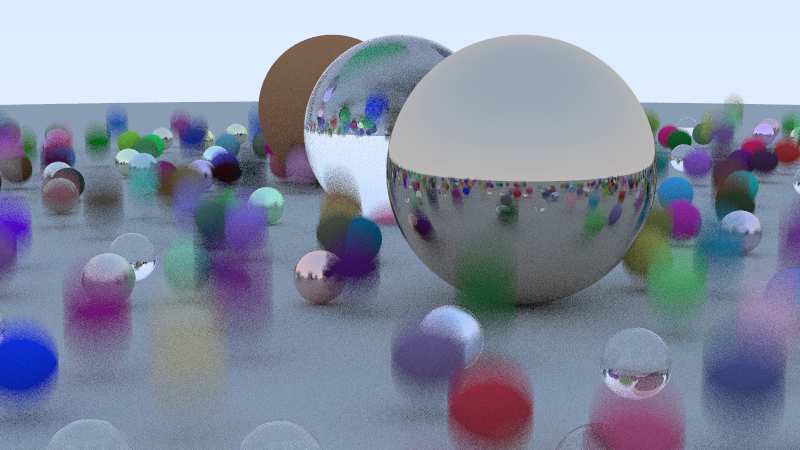
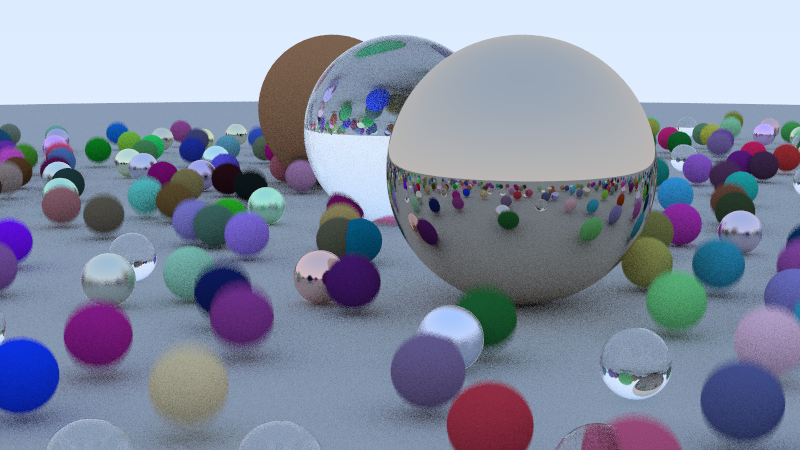
3 bounding volume hierarchy

diff --git a/bvh.h b/bvh.h
@@ -1,0 +1,103 @@
+#pragma once
+
+#include "hittable.h"
+#include "hittable_list.h"
+#include "rtweekend.h"
+
+#include <algorithm>
+#include <cassert>
+
+class bvh_node : public hittable
+{
+public:
+	bvh_node() {}
+
+	bvh_node(const hittable_list& list, float time0, float time1)
+		: bvh_node(list.objects, 0, list.objects.size(), time0, time1)
+	{}
+
+	bvh_node(const std::vector<shared_ptr<hittable>>& src_objects, size_t start, size_t end, float time0, float time1);
+
+	virtual bool hit(const ray& r, float t_min, float t_max, hit_record& rec) const override;
+	virtual bool bounding_box(float time0, float time1, aabb& output_box) const override;
+
+	shared_ptr<hittable> left, right;
+	aabb box;
+};
+
+inline bool box_compare(const shared_ptr<hittable>& a, const shared_ptr<hittable>& b, int axis)
+{
+	aabb box_a, box_b;
+
+	if (!a->bounding_box(0, 0, box_a) || !b->bounding_box(0, 0, box_b))
+	{
+		assert(a_has_box && b_has_box);
+	}
+
+	return box_a.min[axis] < box_b.min[axis];
+}
+bool box_x_compare(const shared_ptr<hittable>& a, const shared_ptr<hittable>& b) { return box_compare(a, b, 0); }
+bool box_y_compare(const shared_ptr<hittable>& a, const shared_ptr<hittable>& b) { return box_compare(a, b, 1); }
+bool box_z_compare(const shared_ptr<hittable>& a, const shared_ptr<hittable>& b) { return box_compare(a, b, 2); }
+
+bvh_node::bvh_node(const std::vector<shared_ptr<hittable>>& src_objects, size_t start, size_t end, float time0, float time1)
+{
+	auto objects = src_objects;
+	const int axis = random_int(0, 2);
+	const auto comparator = (axis == 0) ? box_x_compare : (axis == 1) ? box_y_compare : box_z_compare;
+
+	const size_t object_span = end-start;
+
+	if (object_span == 1)
+	{
+		left = right = objects[start];
+	}
+	else if (object_span == 2)
+	{
+		if (comparator(objects[start], objects[start + 1]))
+		{
+			left = objects[start];
+			right = objects[start+1];
+		}
+		else
+		{
+			left = objects[start+1];
+			right = objects[start];
+		}
+	}
+	else
+	{
+		std::sort(objects.begin() + start, objects.begin() + end, comparator);
+		auto mid = start + object_span/2;
+		left = make_shared<bvh_node>(objects, start, mid, time0, time1);
+		right = make_shared<bvh_node>(objects, mid, end, time0, time1);
+	}
+
+	aabb box_left, box_right;
+
+	if (!left->bounding_box(time0, time1, box_left)
+		|| !right->bounding_box(time0, time1, box_right))
+	{
+		assert(false);
+	}
+
+	box = surrounding_box(box_left, box_right);
+}
+
+bool bvh_node::hit(const ray& r, float t_min, float t_max, hit_record& rec) const
+{
+	if(!box.hit(r, t_min, t_max))
+		return false;
+
+	const bool hit_left = left->hit(r, t_min, t_max, rec);
+	t_max = hit_left ? rec.t : t_max;
+	const bool hit_right = right->hit(r, t_min, t_max, rec);
+
+	return hit_left || hit_right;
+}
+
+bool bvh_node::bounding_box(float time0, float time1, aabb& output_box) const
+{
+	output_box = box;
+	return true;
+}

diff --git a/moving_sphere.h b/moving_sphere.h
@@ -1,5 +1,6 @@
 #pragma once
 
+#include "aabb.h"
 #include "rtweekend.h"
 #include "hittable.h"
 
@@ -13,6 +14,7 @@ public:
 	{}
 
 	virtual bool hit(const ray& r, float t_min, float t_max, hit_record& rec) const override;
+	virtual bool bounding_box(float time0, float time1, aabb& output_box) const override;
 
 	point3 get_center(double time) const;
 
@@ -55,5 +57,16 @@ bool moving_sphere::hit(const ray& r, float t_min, float t_max, hit_record& rec)
 	const vec3 outward_normal = (rec.p - center) / radius;
 	rec.set_face_normal(r, outward_normal);
 	rec.mat_ptr = mat_ptr;
+	return true;
+}
+
+bool moving_sphere::bounding_box(float in_time0, float in_time1, aabb& output_box) const
+{
+	const auto center_at_in_time0 = get_center(in_time0);
+	const auto center_at_in_time1 = get_center(in_time1);
+	const vec3 radius3(radius);
+	const aabb box0(center_at_in_time0 - radius3, center_at_in_time0 + radius3);
+	const aabb box1(center_at_in_time1 - radius3, center_at_in_time1 + radius3);
+	output_box = surrounding_box(box0, box1);
 	return true;
 }

diff --git a/vec3.h b/vec3.h
@@ -3,6 +3,8 @@
 #include <cmath>
 #include <iostream>
 
+#include "rtweekend.h"
+
 using std::sqrt;
 
 class vec3
@@ -13,7 +15,9 @@ public:
 	union { float y; float g; };
 	union { float z; float b; };
 
-	vec3(float x_ = 0.f, float y_ = 0.f, float z_ = 0.f) : x(x_), y(y_), z(z_) {}
+	vec3() : x(0), y(0), z(0) {}
+	vec3(float x_) : x(x_), y(x_), z(x_) {}
+	vec3(float x_, float y_, float z_) : x(x_), y(y_), z(z_) {}
 
 	vec3 operator-() const { return vec3(-x, -y, -z); }
 	float operator[](const int i) const { return y; }
@@ -132,6 +136,16 @@ vec3 refract(const vec3& uv, const vec3& n, float etai_over_etat)
 	const vec3 r_out_perp = etai_over_etat * (uv + cos_theta*n);
 	const vec3 r_out_parallel = -sqrt(fabs(1.0 - r_out_perp.length_squared())) * n;
 	return r_out_perp + r_out_parallel;
+}
+
+vec3 min(const vec3& a, const vec3& b)
+{
+	return vec3(min(a.x, b.x), min(a.y, b.y), min(a.z, b.z));
+}
+
+vec3 max(const vec3& a, const vec3& b)
+{
+	return vec3(max(a.x, b.x), max(a.y, b.y), max(a.z, b.z));
 }
 
 vec3 random_in_unit_sphere()

diff --git a/rtweekend.h b/rtweekend.h
@@ -28,17 +28,39 @@ inline float degrees_to_radians(float degrees)
 	return degrees * pi / 180.0;
 }
 
+std::mt19937& get_generator()
+{
+	static thread_local std::mt19937 generator;
+	return generator;
+}
+
 inline float random_float(float min, float max)
 {
 	// returns a random real in [min,max)
-	static thread_local std::mt19937 generator;
 	std::uniform_real_distribution<float> distribution(min, max);
-	return distribution(generator);
+	return distribution(get_generator());
 }
 
 inline float random_float()
 {
 	return random_float(0, 1);
+}
+
+inline int random_int(int min, int max)
+{
+	// returns a random integer in [min,max]
+	std::uniform_int_distribution<> distribution(min, max+1);
+	return distribution(get_generator());
+}
+
+inline float min(float x, float y)
+{
+	return x < y ? x : y;
+}
+
+inline float max(float x, float y)
+{
+	return x > y ? x : y;
 }
 
 inline float clamp(float x, float min, float max)

diff --git a/hittable_list.h b/hittable_list.h
@@ -18,6 +18,7 @@ public:
 	void add(const shared_ptr<hittable>& object) { objects.push_back(object); }
 
 	virtual bool hit(const ray& r, float t_min, float t_max, hit_record& rec) const override;
+	virtual bool bounding_box(float time0, float time1, aabb& output_box) const override;
 
 	std::vector<shared_ptr<hittable>> objects;
 };
@@ -39,4 +40,20 @@ bool hittable_list::hit(const ray& r, float t_min, float t_max, hit_record& rec)
 	}
 
 	return hit_anything;
+}
+
+bool hittable_list::bounding_box(float time0, float time1, aabb& output_box) const
+{
+	if(objects.empty()) return false;
+
+	aabb temp_box;
+	bool first_box = true;
+	for (const auto& object : objects)
+	{
+		if(!object->bounding_box(time0, time1, temp_box)) return false;
+		output_box = first_box ? temp_box : surrounding_box(output_box, temp_box);
+		first_box = false;
+	}
+
+	return true;
 }

diff --git a/aabb.h b/aabb.h
@@ -1,0 +1,34 @@
+#pragma once
+
+#include "rtweekend.h"
+
+class aabb
+{
+public:
+	aabb() {}
+	aabb(const point3& min_point_, const point3& max_point_) : min_point(min_point_), max_point(max_point_) {}
+
+	bool hit(const ray& r, float t_min, float t_max) const
+	{
+		for (int i = 0; i < 3; i++)
+		{
+			const float invD = 1.0 / r.dir[i];
+			const float ta_min = (min_point[i] - r.origin[i]) * invD;
+			const float ta_max = (max_point[i] - r.origin[i]) * invD;
+			const float t0 = min(ta_min, ta_max);
+			const float t1 = max(ta_min, ta_max);
+			t_min = max(t0, t_min);
+			t_max = min(t1, t_max);
+			if(t_max <= t_min)
+				return false;
+		}
+		return true;
+	}
+
+	point3 min_point, max_point;
+};
+
+aabb surrounding_box(const aabb& box0, const aabb& box1)
+{
+	return aabb(min(box0.min_point, box1.min_point), max(box0.max_point, box1.max_point));
+}

diff --git a/sphere.h b/sphere.h
@@ -11,6 +11,7 @@ public:
 		: center(cen), radius(r), mat_ptr(m) {};
 
 	virtual bool hit(const ray& r, float t_min, float t_max, hit_record& rec) const override;
+	virtual bool bounding_box(float time0, float time1, aabb& output_box) const override;
 
 	point3 center;
 	float radius;
@@ -44,5 +45,11 @@ bool sphere::hit(const ray& r, float t_min, float t_max, hit_record& rec) const
 	const vec3 outward_normal = (rec.p - center) / radius;
 	rec.set_face_normal(r, outward_normal);
 	rec.mat_ptr = mat_ptr;
+	return true;
+}
+
+bool sphere::bounding_box(float time0, float time1, aabb& output_box) const
+{
+	output_box = aabb(center - vec3(radius), center + vec3(radius));
 	return true;
 }

diff --git a/main.cpp b/main.cpp
@@ -112,7 +112,7 @@ int main()
 	const vec3 vup(0,1,0);
 	const auto dist_to_focus = 10;
 	const auto aperture = 0;
-	const camera cam(lookfrom, lookat, vup, 20, aspect_ratio, aperture, dist_to_focus, 0.0, 1.0);
+	const camera cam(lookfrom, lookat, vup, 20, aspect_ratio, aperture, dist_to_focus, 0.0, 0.2);
 
 	// Buffers
 	color* color_buffer = (color*)malloc(image_width * image_height * sizeof(color));

diff --git a/hittable.h b/hittable.h
@@ -1,5 +1,6 @@
 #pragma once
 
+#include "aabb.h"
 #include "rtweekend.h"
 
 class material;
@@ -23,4 +24,5 @@ class hittable
 {
 public:
 	virtual bool hit(const ray& r, float t_min, float t_max, hit_record& rec) const = 0;
+	virtual bool bounding_box(float time0, float time1, aabb& output_box) const = 0;
 };
